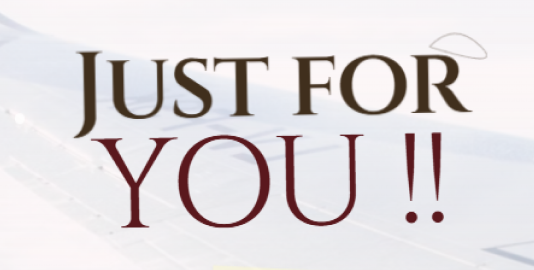
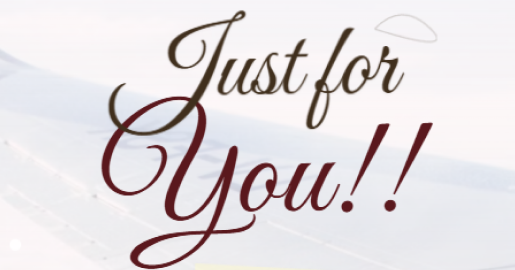
update the hero page and font

diff --git a/components/Hero.tsx b/components/Hero.tsx
@@ -52,11 +52,11 @@ export const Hero: React.FC<HeroProps> = ({ onOpen, visible }) => {
         {/* Top Text: "Just for YOU !!" */}
         <FadeIn show={visible} delay={300} className="mb-6">
            <div className="relative transform -rotate-1">
-             <h2 className="font-serif text-5xl md:text-7xl text-winter-brown drop-shadow-sm font-semibold leading-none tracking-tight">
+            <h2 className="font-script text-5xl md:text-7xl text-winter-brown drop-shadow-sm leading-none">
                Just for
              </h2>
-             <span className="font-serif text-6xl md:text-8xl text-winter-red block -mt-1 md:-mt-2 tracking-tight">
-               YOU !!
+            <span className="font-script text-6xl md:text-8xl text-winter-red block -mt-1 md:-mt-2">
+               You!!
              </span>
              {/* Decorative sketch lines */}
              <svg className="absolute -top-4 -right-4 w-12 h-12 text-winter-brown/40 animate-pulse-slow" viewBox="0 0 100 100">
@@ -72,33 +72,33 @@ export const Hero: React.FC<HeroProps> = ({ onOpen, visible }) => {
             <div className="border-4 border-winter-brown p-4 relative">
               
               <div className="flex justify-between items-end border-b-2 border-winter-brown pb-2 mb-2">
-                 <span className="font-serif text-xl md:text-3xl text-winter-brown font-semibold">November 2028</span>
+                 <span className="font-script text-3xl md:text-4xl text-winter-brown">November 2028</span>
                  {/* Little heart sketch */}
                  <svg className="w-6 h-6 text-winter-red mb-1" fill="currentColor" viewBox="0 0 24 24"><path d="M12 21.35l-1.45-1.32C5.4 15.36 2 12.28 2 8.5 2 5.42 4.42 3 7.5 3c1.74 0 3.41.81 4.5 2.09C13.09 3.81 14.76 3 16.5 3 19.58 3 22 5.42 22 8.5c0 3.78-3.4 6.86-8.55 11.54L12 21.35z"/></svg>
               </div>
               
               <div className="grid grid-cols-3 text-center">
-                <div className="font-serif text-base md:text-xl text-winter-brown font-semibold py-2 border-r-2 border-winter-brown">Wed</div>
-                <div className="font-serif text-base md:text-xl text-winter-brown font-semibold py-2 border-r-2 border-winter-brown">Thu</div>
-                <div className="font-serif text-base md:text-xl text-winter-brown font-semibold py-2">Fri</div>
+                <div className="font-script text-xl md:text-2xl text-winter-brown py-2 border-r-2 border-winter-brown">Wed</div>
+                <div className="font-script text-xl md:text-2xl text-winter-brown py-2 border-r-2 border-winter-brown">Thu</div>
+                <div className="font-script text-xl md:text-2xl text-winter-brown py-2">Fri</div>
                 
                 {/* Horizontal Line */}
                 <div className="col-span-3 h-0.5 bg-winter-brown mb-2"></div>
 
                 {/* Dates */}
-                <div className="font-serif text-4xl md:text-5xl text-winter-brown/70 py-4 border-r-2 border-winter-brown flex items-center justify-center">1</div>
+                <div className="font-script text-5xl md:text-5xl text-winter-brown/70 py-4 border-r-2 border-winter-brown flex items-center justify-center">1</div>
                 
                 {/* Nov 2 - Circled */}
-                <div className="relative flex items-center justify-center border-r-2 border-winter-brown py-4">
-                   {/* Sketch Circle */}
-                   <svg className="absolute w-16 h-16 md:w-20 md:h-20 text-winter-red animate-pulse-slow transform -rotate-12" viewBox="0 0 100 100">
-                     <circle cx="50" cy="50" r="40" fill="none" stroke="currentColor" strokeWidth="2" strokeDasharray="10 5" opacity="0.8" />
-                     <circle cx="50" cy="50" r="38" fill="none" stroke="currentColor" strokeWidth="1" strokeLinecap="round" />
-                   </svg>
-                   <div className="font-serif text-5xl md:text-6xl text-winter-red font-semibold relative z-10">2</div>
+                 <div className="relative flex items-center justify-center border-r-2 border-winter-brown py-4">
+                    {/* Sketch Circle */}
+                    <svg className="absolute w-20 h-20 md:w-24 md:h-24 text-winter-red animate-pulse-slow transform -rotate-12 drop-shadow-[0_2px_4px_rgba(0,0,0,0.18)]" viewBox="0 0 100 100">
+                      <circle cx="50" cy="50" r="42" fill="none" stroke="currentColor" strokeWidth="3" strokeDasharray="12 6" opacity="0.85" />
+                      <circle cx="50" cy="50" r="39" fill="none" stroke="currentColor" strokeWidth="2" strokeLinecap="round" opacity="0.9" />
+                    </svg>
+                   <div className="font-script text-6xl md:text-6xl text-winter-red relative z-10">2</div>
                 </div>
                 
-                <div className="font-serif text-4xl md:text-5xl text-winter-brown/70 py-4 flex items-center justify-center">3</div>
+                <div className="font-script text-5xl md:text-5xl text-winter-brown/70 py-4 flex items-center justify-center">3</div>
               </div>
             </div>
             
@@ -110,11 +110,11 @@ export const Hero: React.FC<HeroProps> = ({ onOpen, visible }) => {
         {/* Bottom Text */}
         <FadeIn show={visible} delay={900}>
           <div className="mb-10 transform -rotate-1 text-center">
-            <p className="font-serif text-2xl md:text-4xl text-winter-brown font-semibold uppercase tracking-[0.2em]">
-              we ARE tying the
+            <p className="font-script text-3xl md:text-5xl text-winter-brown leading-tight">
+              We are tying the
             </p>
-            <p className="font-serif text-4xl md:text-6xl text-winter-red font-semibold tracking-tight mt-0">
-              KNOT!!
+            <p className="font-script text-5xl md:text-7xl text-winter-red leading-tight mt-1">
+              Knot!!
             </p>
           </div>
         </FadeIn>
